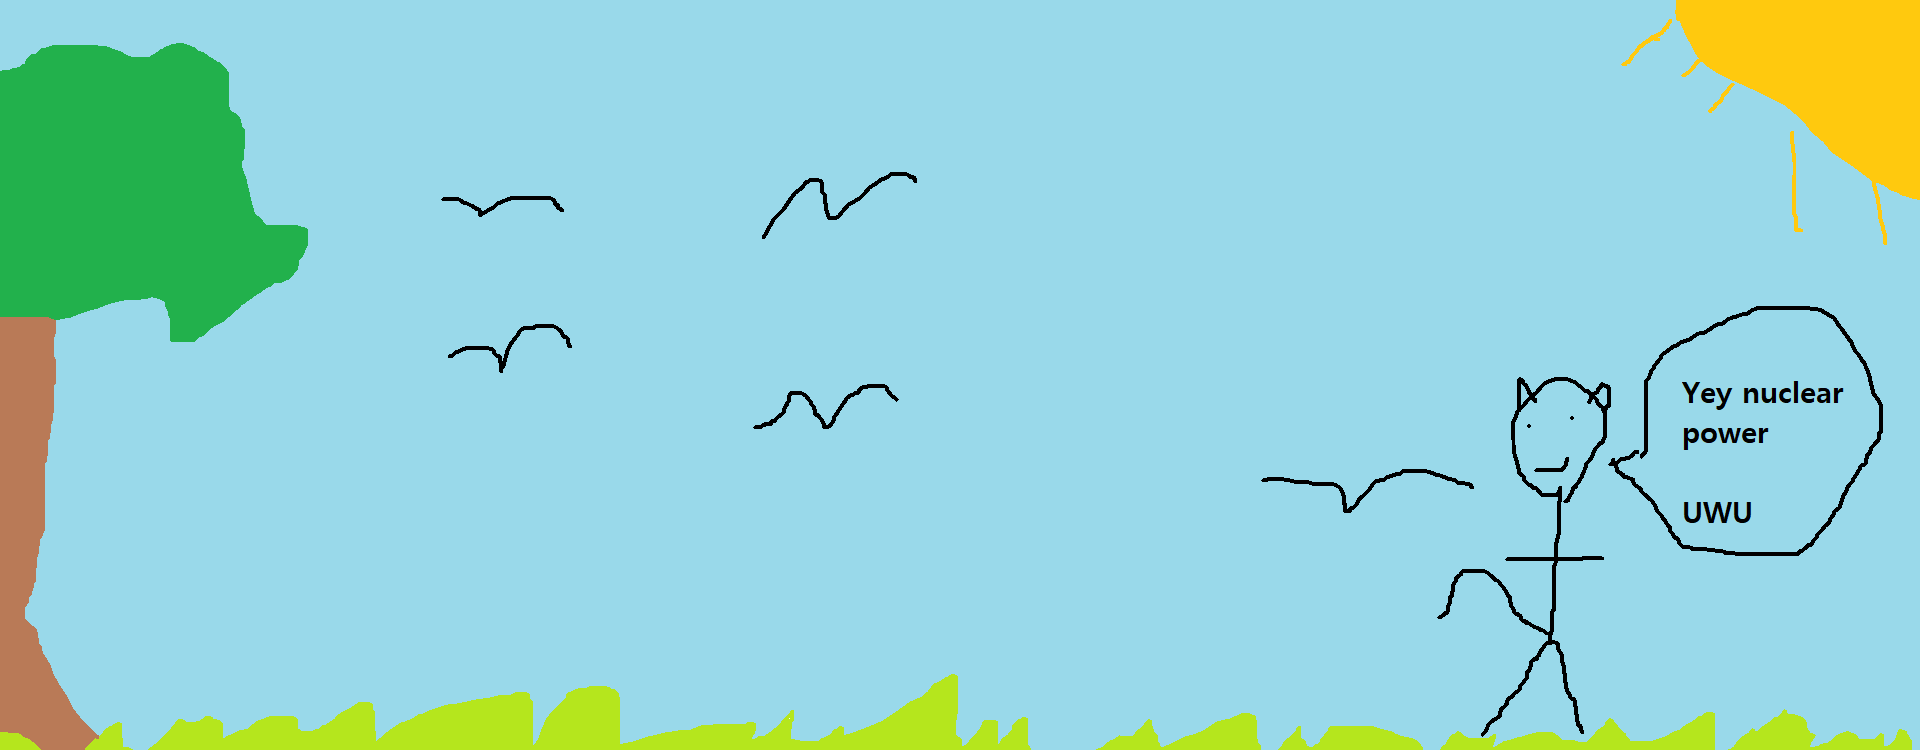
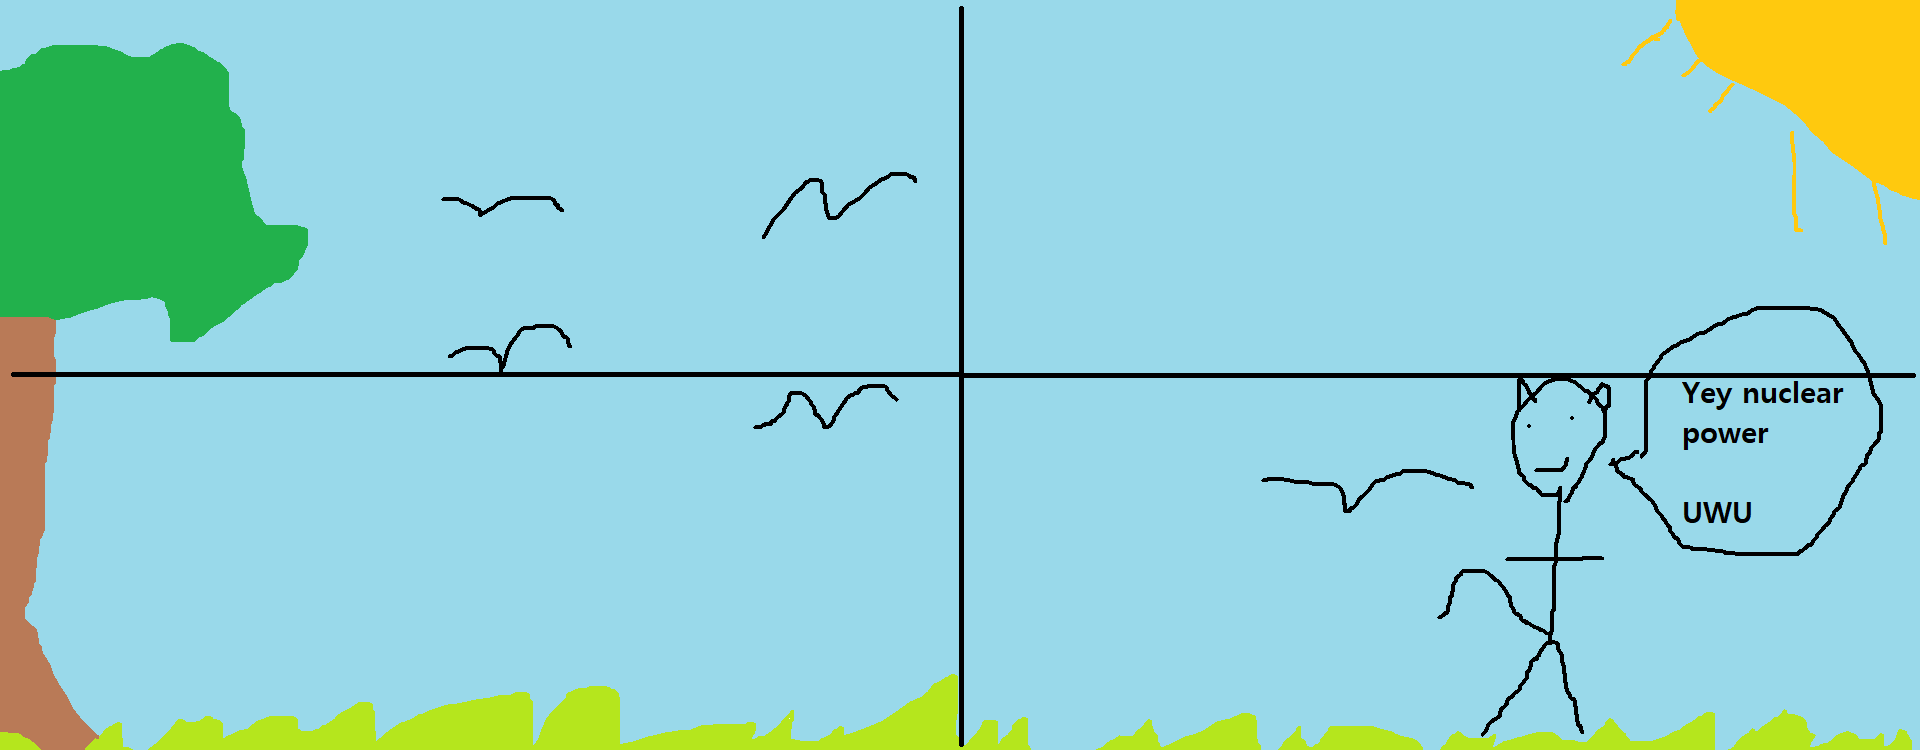
Fixed some CSS errors

Changed region(s): [[0.0, 0.4907, 1.0, 0.5213]]

diff --git a/index.html b/index.html
@@ -24,7 +24,10 @@
 
             </div>
             <div class="linkbarContainer">
+              
                 <div class="linkBar">
+                  <div class="titleContainer"><h2>test</h2></div>
+                  
                     <ul class="nav nav-pills">
                         <li class="nav-item">
                           <a class="nav-link active" href="#">Active</a>
@@ -47,9 +50,9 @@
         <div class="contentContainer">
             <div class="col1">
                 <div class="centre">
-                  <p>Nuclear power is fun</p>
-                  <p>All the cool kids are doing it</p>
-                  <p>You wanna be cool right?</p>
+                  <p>Nuclear power is fun<br>
+                  All the cool kids are doing it<br>
+                  You wanna be cool right?</p>
                 </div>
             </div>
             <div class="col2"></div>

diff --git a/styles/style.css b/styles/style.css
@@ -34,16 +34,21 @@ html, body {
 
 .linkbarContainer {
     height:100%;
-	width: 50%;
+	width: 80%;
     float:left;
     margin: auto auto;
 
     bottom: 0;
 
     position: relative;
+    background-color: red;
+   
 
    
 
+}
+.titleContainer{
+    margin-left: 10px;
 }
 .linkBar{
     width:100%;
@@ -62,7 +67,7 @@ html, body {
 	background-image: url("../images/testback.png");
     background-position: center;
     background-repeat: no-repeat; 
-    background-size:contain;
+    background-size:cover;
 	width: 100%;
     height:80%;
 	/*overflow: hidden;*/
@@ -74,6 +79,10 @@ html, body {
     text-align: center;
     float:left;
 
+    display: flex;
+    justify-content: center;
+    align-items: center;
+
 }
 .col2{
     width:60%;
@@ -82,8 +91,7 @@ html, body {
 
 }
 .centre {
-    margin: auto;
-    padding: 40% 0;
+    flex: 0 0 120px;
   }
 
 
